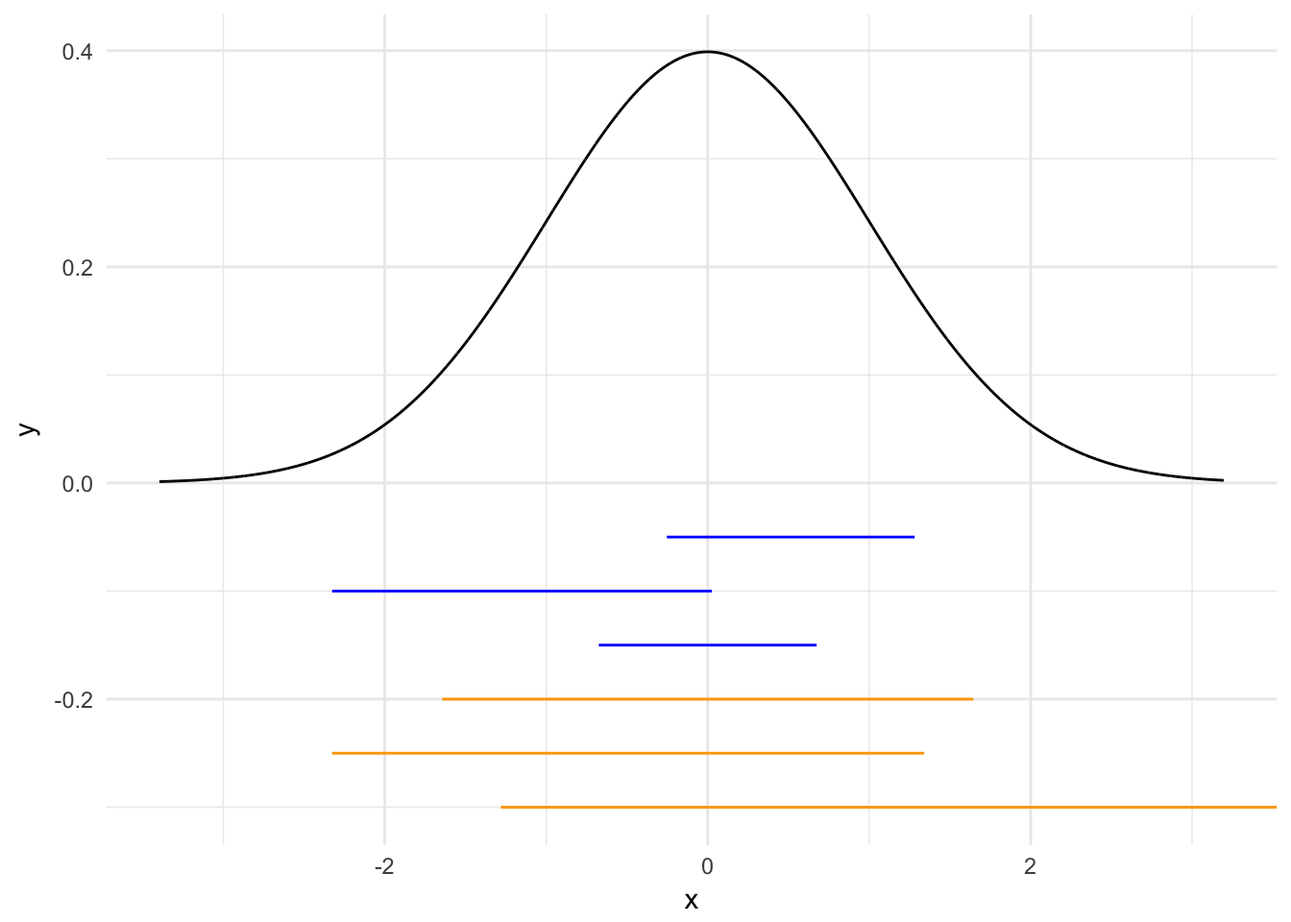
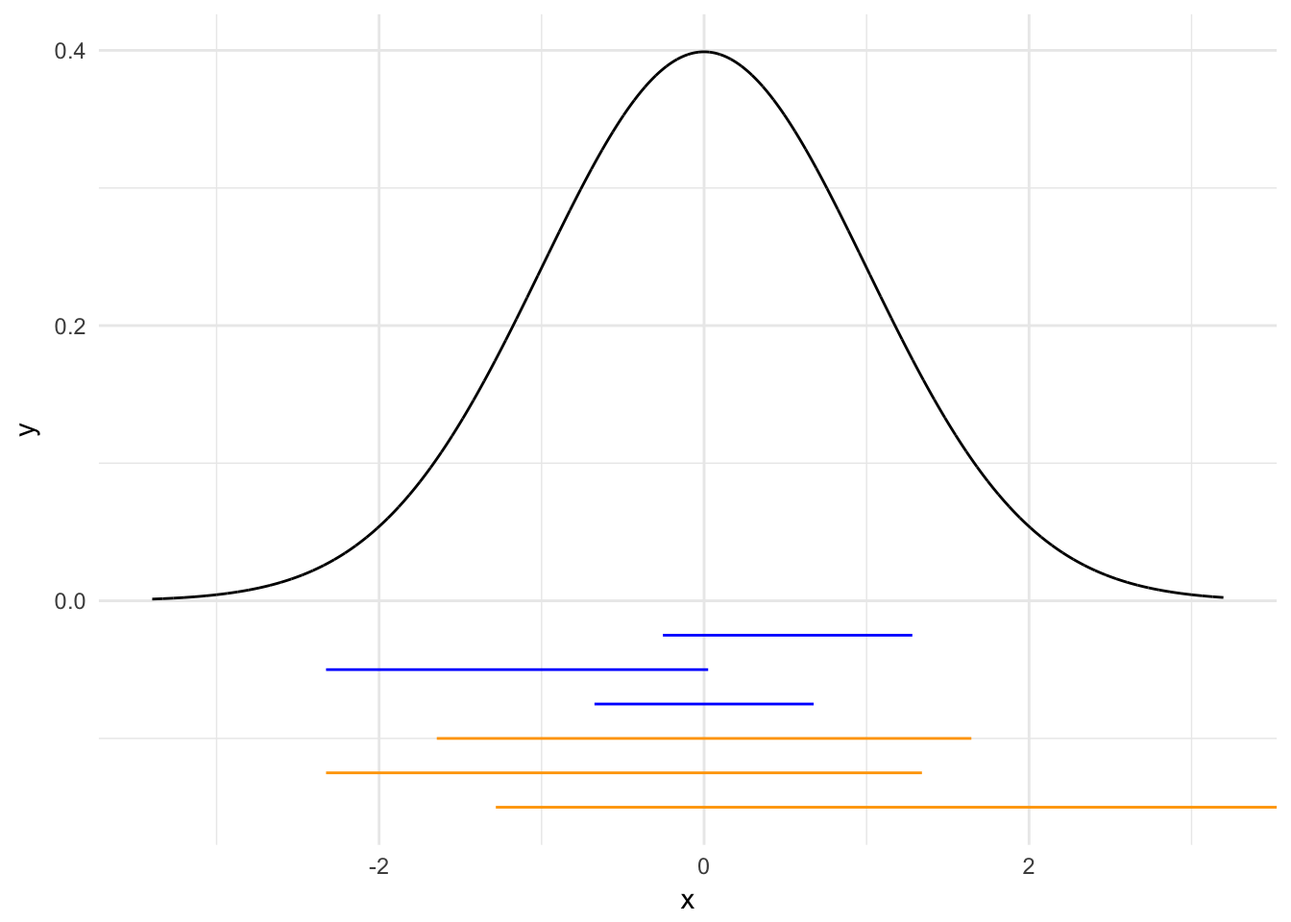
Clean up Bayesian notes and fix typos

diff --git a/persp017_inference.html b/persp017_inference.html
@@ -362,13 +362,9 @@ div.tocify {
 <div id="objectives" class="section level1">
 <h1>Objectives</h1>
 <ul>
-<li>Define Bayes’ theorem
-<ul>
-<li>False-positive example in disease detection (p. 33 in Bertsekas)</li>
-<li>9/11 hijacking example from <em>Signal and the Noise</em></li>
-</ul></li>
-<li>Define frequentist inference</li>
+<li>Define Bayes’ theorem</li>
 <li>Define Bayesian inference</li>
+<li>Define frequentist inference</li>
 <li>Demonstrate basic Bayesian inference compared to frequentist inference</li>
 <li>Identify computational methods for estimating Bayesian models</li>
 </ul>
@@ -394,7 +390,7 @@ div.tocify {
 <p>Bayes’ rule tells us how to <strong>invert</strong> conditional probabilities. That is, to find <span class="math inline">\(P(B|A)\)</span> from <span class="math inline">\(P(A|B)\)</span>. Let’s walk through this with a few examples.</p>
 <div id="coin-tossing" class="section level2">
 <h2>Coin tossing</h2>
-<p>Toss a coin 5 times. Let $H_1 = $ “first toss is heads” and let $H_A = $ “all 5 tosses are heads”. Therefore <span class="math inline">\(P(H_1 | H_A) = 1\)</span> (if all five tosses are heads, then the first one must by definition also be heads) and <span class="math inline">\(P(H_A | H_1) = \frac{1}{16}\)</span> (<span class="math inline">\(\frac{1}{2^4} = \frac{1}{16}\)</span>).</p>
+<p>Toss a coin 5 times. Let <span class="math inline">\(H_1 =\)</span> “first toss is heads” and let <span class="math inline">\(H_A =\)</span> “all 5 tosses are heads”. Therefore <span class="math inline">\(P(H_1 | H_A) = 1\)</span> (if all five tosses are heads, then the first one must by definition also be heads) and <span class="math inline">\(P(H_A | H_1) = \frac{1}{16}\)</span> (<span class="math inline">\(\frac{1}{2^4} = \frac{1}{16}\)</span>).</p>
 <p>However we can also use Bayes’ theorem to calculate <span class="math inline">\(P(H_1 | H_A)\)</span> using <span class="math inline">\(P(H_A | H_1)\)</span>. The terms we need are:</p>
 <ul>
 <li><span class="math inline">\(P(H_A | H_1) = \frac{1}{16}\)</span></li>
@@ -416,7 +412,7 @@ div.tocify {
 </ul>
 <p><span class="math display">\[
 \begin{align}
-P(\text{aircraft present} | \text{radar registers} &amp;= P(A|B) \\
+P(\text{aircraft present} | \text{radar registers}) &amp;= P(A|B) \\
 &amp; = \frac{P(A) \cdot P(B|A)}{P(B)} \\
 &amp; = \frac{P(A) \cdot P(B|A)}{P(A) \cdot P(B|A) + P(A = 0) \cdot(B | A = 0)} \\
 &amp; = \frac{0.05 \cdot 0.99}{0.05 \cdot 0.99 + 0.95 \cdot 0.1} \\
@@ -432,7 +428,7 @@ P(\text{aircraft present} | \text{radar registers} &amp;= P(A|B) \\
 <li>If a person has the disease, then the test results are positive with probability 0.95</li>
 <li>If the person does not have the disease, then the test results are negative with probability 0.95</li>
 </ul>
-<p>A random person drawn from a certain population has probability 0.001 of having the disease. Given that the person just tested positive, what is the probabiltiy of having the disease?</p>
+<p>A random person drawn from a certain population has probability 0.001 of having the disease. Given that the person just tested positive, what is the probability of having the disease?</p>
 <ul>
 <li><span class="math inline">\(A = {\text{person has the disease}}\)</span></li>
 <li><span class="math inline">\(B = {\text{test result is positive for the disease}}\)</span></li>
@@ -470,7 +466,7 @@ P(\text{person has the disease} | \text{test is positive}) &amp;= P(A|B) \\
 &amp; = 0.0187
 \end{align}
 \]</span></p>
-<p>Before the test, we would have said the probability the person had the disease was 0.002. After the test, we see the probability is 0.166. That is, the positive test provides some evidence that the person has the disease (even if it isn’t good evidence).</p>
+<p>Before the test, we would have said the probability the person had the disease was 0.001. After the test, we see the probability is 0.0187, or 18 times more likely than before the test. That is, the positive test provides some evidence that the person has the disease (even if it isn’t good evidence).</p>
 </div>
 <div id="coin-tossing-example" class="section level2">
 <h2>Coin tossing example</h2>
@@ -483,7 +479,7 @@ P(\text{person has the disease} | \text{test is positive}) &amp;= P(A|B) \\
 <p>Suppose I have a drawer containing 5 coins: 2 of type <span class="math inline">\(A\)</span>, 2 of type <span class="math inline">\(B\)</span>, and 1 of type <span class="math inline">\(C\)</span>. I reach into the drawer and pick a coin at random. Without showing you the coin I flip it once and get heads. What is the probability it is type <span class="math inline">\(A\)</span>? Type <span class="math inline">\(B\)</span>? Type <span class="math inline">\(C\)</span>?</p>
 <div id="terminology" class="section level3">
 <h3>Terminology</h3>
-<p>Let <span class="math inline">\(A\)</span>, <span class="math inline">\(B\)</span>, and <span class="math inline">\(C\)</span> be the even the chosen coin was of the respective type. Let <span class="math inline">\(D\)</span> be the event that the toss is heads. The problem then asks us to find:</p>
+<p>Let <span class="math inline">\(A\)</span>, <span class="math inline">\(B\)</span>, and <span class="math inline">\(C\)</span> be the event the chosen coin was of the respective type. Let <span class="math inline">\(D\)</span> be the event that the toss is heads. The problem then asks us to find:</p>
 <p><span class="math display">\[P(A|D), P(B|D), P(C|D)\]</span></p>
 <p>Before applying Bayes’ theorem, we need to define a few things:</p>
 <ul>
@@ -493,7 +489,8 @@ P(\text{person has the disease} | \text{test is positive}) &amp;= P(A|B) \\
 <li><p>Prior probability - the probability of each hypothesis prior to tossing the coin (collecting data). Since the drawer has 2 coins of type <span class="math inline">\(A\)</span>, 2 of type <span class="math inline">\(B\)</span>, and 1 of type <span class="math inline">\(C\)</span>, we have:</p>
 <p><span class="math display">\[P(A) = 0.4, P(B) = 0.4, P(C) = 0.2\]</span></p></li>
 <li><p>Likelihood - the likelihood function (same as used for maximum-likelihood estimation). The likelihood function is <span class="math inline">\(P(D|H)\)</span>, the probability of the data assuming that the hypothesis is true. Most often we will consider the data as fixed and let the hypothesis vary. For example, <span class="math inline">\(P(D|A) =\)</span> probability of heads if the coin is type <span class="math inline">\(A\)</span>. In our case, the likelihoods are:</p>
-<p><span class="math display">\[P(D|A) = 0.5, P(D|B) = 0.6, P(D|C) = 0.9\]</span></p></li>
+<p><span class="math display">\[P(D|A) = 0.5, P(D|B) = 0.6, P(D|C) = 0.9\]</span></p>
+<p>We can think of these as parameters for a series of Bernoulli distributions.</p></li>
 <li><p>Posterior probability - the probability (posterior to) of each hypothesis given the data from tossing the coin:</p>
 <p><span class="math display">\[P(A|D), P(B|D), P(C|D)\]</span></p>
 <p>These posterior probabilities are what we want to find.</p></li>
@@ -566,7 +563,7 @@ P(D) &amp; = P(D|A) \cdot P(A) + P(D|B) \cdot P(B) + P(D|C) \cdot P(C) \\
 <div id="things-to-notice" class="section level3">
 <h3>Things to notice</h3>
 <ol style="list-style-type: decimal">
-<li>The posterior probabilities for each hypothesis are in the last column. Coin <span class="math inline">\(B\)</span> is the most probably, even with the decrease from the prior to the posterior. <span class="math inline">\(C\)</span> has increased from 0.2 to 0.29.</li>
+<li>The posterior probabilities for each hypothesis are in the last column. Coin <span class="math inline">\(B\)</span> is the most probable, even with the decrease from the prior to the posterior. <span class="math inline">\(C\)</span> has increased from 0.2 to 0.29.</li>
 <li>The Bayes numerator determines the posterior probability. To compute the posterior probability, simply rescale the Bayes numerator so that it sums to 1.</li>
 <li>If all we care about is finding the most likely hypothesis, the Bayes numerator works as well as the normalized posterior.</li>
 <li>The posterior probability represents the outcome of a tug-of-war between the likelihood and the prior. When calculating the posterior, a large prior may be deflated by a small likelihood, and a small prior may be inflated by a large likelihood.</li>
@@ -593,11 +590,11 @@ P(D) &amp; = P(D|A) \cdot P(A) + P(D|B) \cdot P(B) + P(D|C) \cdot P(C) \\
 <p>In life we continually update our beliefs with each new experience of the world. In Bayesian inference, today’s posterior is tomorrow’s prior.</p>
 <div id="terror-attack-example" class="section level3">
 <h3>Terror attack example</h3>
-<p>Consider the September 11th attacks in New York City. Say that before the first plane hit, our estimate of the probability of a terror attack on tall buildings in Manhattan was just 1 in 20,000, or 0.005 percent. But we also a ssign a low probability to a plane hitting the World Trade Center by accident: 1 in 12,500 on any given day.<a href="#fn2" class="footnoteRef" id="fnref2"><sup>2</sup></a> Consider the use of Bayes’ theorem in this instance. What is the probability of terrorists crashing planes into Manhattan skyscrapers given the first plane hitting the World Trade Center?</p>
+<p>Consider the September 11th attacks in New York City. Say that before the first plane hit, our estimate of the probability of a terror attack on tall buildings in Manhattan was just 1 in 20,000, or 0.005 percent. But we also assign a low probability to a plane hitting the World Trade Center by accident: 1 in 12,500 on any given day.<a href="#fn2" class="footnoteRef" id="fnref2"><sup>2</sup></a> Consider the use of Bayes’ theorem in this instance. What is the probability of terrorists crashing planes into Manhattan skyscrapers given the first plane hitting the World Trade Center?</p>
 <ul>
-<li>Our initial estimate of how likely it is that terrorists would crash planes into Manhattan skyscrapes is <span class="math inline">\(p = 0.005\)</span></li>
+<li>Our initial estimate of how likely it is that terrorists would crash planes into Manhattan skyscrapers is <span class="math inline">\(p = 0.005\)</span></li>
 <li>Probability of plane hitting if terrorists are attacking Manhattan is <span class="math inline">\(p = 1\)</span></li>
-<li>Probability of plane hitting if terrrosts are not attacking Manhattan skyscrapers (i.e. an accident) is <span class="math inline">\(p = 0.008\)</span></li>
+<li>Probability of plane hitting if terrorists are not attacking Manhattan skyscrapers (i.e. an accident) is <span class="math inline">\(p = 0.008\)</span></li>
 </ul>
 <p>Our posterior probability of a terror attack, given the first plane hitting the world trade center, is:</p>
 <ul>
@@ -628,7 +625,10 @@ P(A|B) &amp;= \frac{P(B|A) \cdot P(A)}{P(B)} \\
 </div>
 <div id="choosing-priors" class="section level2">
 <h2>Choosing priors</h2>
-<p>Bayesian inference requires a known prior. What happens if the prior is not known with certainty? Then we need to come up with one. A common approach uses a <strong>uniform prior</strong>, or a flat probability distribution. But if we choose a different prior, we will not obtain the same posterior probabilities. This is one of the major critiques of Bayesian inference, since selection of the prior is based on domain knowledge (and potentially previously obtained posterior probabilities).</p>
+<p>Bayesian inference requires a known prior. What happens if the prior is not known with certainty? Then we need to come up with one. A common approach uses a <strong>uniform prior</strong>, or a flat probability distribution.<a href="#fn3" class="footnoteRef" id="fnref3"><sup>3</sup></a> Other priors come from different distributions, such as Gamma or Beta distributions, or use previous posterior probability distributions as prior probability distributions in updating Bayesian models.</p>
+<p><span class="math display">\[P(\text{hypothesis}| \text{data}) = \frac{P(\text{data} | \text{hypothesis}) \cdot P(\text{hypothesis})}{P(\text{data})}\]</span></p>
+<p><span class="math display">\[\text{posterior} \propto \text{likelhood} \cdot \text{prior}\]</span></p>
+<p>If we choose a different prior, we will not obtain the same posterior probabilities. This is one of the major critiques of Bayesian inference, since selection of the prior is based on domain knowledge (and potentially previously obtained posterior probabilities).</p>
 </div>
 <div id="probability-intervals" class="section level2">
 <h2>Probability intervals</h2>
@@ -640,12 +640,12 @@ P(A|B) &amp;= \frac{P(B|A) \cdot P(A)}{P(B)} \\
 xmin_start &lt;-<span class="st"> </span><span class="kw">c</span>(.<span class="dv">25</span>, .<span class="dv">01</span>, .<span class="dv">4</span>)
 sim_50p &lt;-<span class="st"> </span><span class="kw">data_frame</span>(<span class="dt">xmin =</span> <span class="kw">qnorm</span>(xmin_start),
                       <span class="dt">xmax =</span> <span class="kw">qnorm</span>(xmin_start +<span class="st"> </span>.<span class="dv">5</span>),
-                      <span class="dt">y =</span> <span class="kw">c</span>(-.<span class="dv">15</span>, -.<span class="dv">1</span>, -.<span class="dv">05</span>))
+                      <span class="dt">y =</span> <span class="kw">c</span>(-.<span class="dv">075</span>, -.<span class="dv">05</span>, -.<span class="dv">025</span>))
 
 xmin_start &lt;-<span class="st"> </span><span class="kw">c</span>(.<span class="dv">1</span>, .<span class="dv">01</span>, .<span class="dv">05</span>)
 sim_90p &lt;-<span class="st"> </span><span class="kw">data_frame</span>(<span class="dt">xmin =</span> <span class="kw">qnorm</span>(xmin_start),
                       <span class="dt">xmax =</span> <span class="kw">qnorm</span>(xmin_start +<span class="st"> </span>.<span class="dv">9</span>),
-                      <span class="dt">y =</span> <span class="kw">c</span>(-.<span class="dv">3</span>, -.<span class="dv">25</span>, -.<span class="dv">2</span>))
+                      <span class="dt">y =</span> <span class="kw">c</span>(-.<span class="dv">15</span>, -.<span class="dv">125</span>, -.<span class="dv">1</span>))
 
 <span class="kw">ggplot</span>(sim_data, <span class="kw">aes</span>(x)) +
 <span class="st">  </span><span class="kw">stat_function</span>(<span class="dt">fun =</span> dnorm, <span class="dt">n =</span> <span class="dv">10000</span>, <span class="dt">args =</span> <span class="kw">list</span>(<span class="dt">mean =</span> <span class="dv">0</span>, <span class="dt">sd =</span> <span class="dv">1</span>)) +
@@ -654,13 +654,13 @@ sim_90p &lt;-<span class="st"> </span><span class="kw">data_frame</span>(<span c
 <span class="st">  </span><span class="kw">geom_segment</span>(<span class="dt">data =</span> sim_90p, <span class="kw">aes</span>(<span class="dt">x =</span> xmin, <span class="dt">xend =</span> xmax, <span class="dt">y =</span> y, <span class="dt">yend =</span> y),
                <span class="dt">color =</span> <span class="st">&quot;orange&quot;</span>)</code></pre></div>
 <p><img src="persp017_inference_files/figure-html/pi-width-1.png" width="672" /></p>
-<p>The blue bars span .5-probability intervals. The lengths differ because they are centered over different percentiles (e.g. <span class="math inline">\([.25, .75]\)</span>, <span class="math inline">\([.01, .51]\)</span>, <span class="math inline">\([.4, .9]\)</span>). Likewise for the .9-probability bars in orange. The shortest bars are symmetric and centered over the most likely value (e.g. the mean).</p>
+<p>The blue bars span .5-probability intervals. Each bar contains 50% of the probability mass in the pdf. The lengths differ because they are centered over different percentiles (e.g. <span class="math inline">\([.25, .75]\)</span>, <span class="math inline">\([.01, .51]\)</span>, <span class="math inline">\([.4, .9]\)</span>). Likewise for the .9-probability bars in orange. The shortest bars are symmetric and centered over the most likely value (e.g. the mean).</p>
 <p>Probability intervals are an intuitive and effective way to summarize and communicate your beliefs. Likely you don’t want to describe an entire function <span class="math inline">\(f(\theta)\)</span> in words. Think about it:</p>
 <blockquote>
 <p>I think <span class="math inline">\(\theta\)</span> is between 0.45 and 0.65 with 50% probability.</p>
 </blockquote>
 <blockquote>
-<p>I think <span class="math inline">\(\theta\)</span> follows a <span class="math inline">\(\text{beta}(8, 6)\)</span> distribution.</p>
+<p>I think <span class="math inline">\(\theta\)</span> follows a <span class="math inline">\(\text{Beta}(8, 6)\)</span> distribution.</p>
 </blockquote>
 </div>
 </div>
@@ -670,8 +670,8 @@ sim_90p &lt;-<span class="st"> </span><span class="kw">data_frame</span>(<span c
 <p><span class="math display">\[P(H|D) = \frac{P(D | H) \cdot P(H)}{P(D)}\]</span></p>
 <p>When the prior is known, both Bayesians and frequentists use Bayes’ rule. However, when the prior is not known Bayesians develop one based on the best available information. Frequentists instead abandon Bayes’ theorem and conduct inference just based on the likelihood function:</p>
 <p><span class="math display">\[L(H; D) = P(D|H)\]</span></p>
-<p>The core reasons for this deviation is the meaning of probability. Frequentists believe that probabilities represent longterm frequencies of repeatable random experiments. So if “a coin has probability 0.5 of heads”, a frequentist believes this means the relative frequency of heads goes to 0.5 as the number of flips approaches infinity. This means the frequentist finds it non-sensical to specify a probability distribution for a parameter <span class="math inline">\(\theta\)</span> with a fixed value.</p>
-<p>In short, Bayesians put probability distributions on both hypotheses and data, while frequentists put probability distributions on (random, repeatable, experimental) data given a hypothesis.</p>
+<p>The core reasons for this deviation is the meaning of probability. Frequentists believe that probabilities represent long-term frequencies of repeatable random experiments. So if “a coin has probability 0.5 of heads”, a frequentist believes this means the relative frequency of heads goes to 0.5 as the number of flips approaches infinity. This means the frequentist finds it nonsensical to specify a probability distribution for a parameter <span class="math inline">\(\theta\)</span> with a fixed value.</p>
+<p>In short, Bayesians put probability distributions on both hypotheses and data, while frequentists put probability distributions on (random, repeatable, experimental) data given a hypothesis.<a href="#fn4" class="footnoteRef" id="fnref4"><sup>4</sup></a></p>
 <div id="null-hypothesis-testing" class="section level2">
 <h2>Null hypothesis testing</h2>
 <p>This explains the <strong>null hypothesis test</strong>. The presumption is that some hypothesis (parameter specifying the conditional distribution of the data) is true and that the observed data is sampled from that distribution. Therefore, under the null hypothesis we assume the parameter(s) is zero. If that is true, what is the probability of observing the given data? It does not depend on a subjective prior that could vary from researcher to researcher. This is where we get all of the things like:</p>
@@ -685,7 +685,7 @@ sim_90p &lt;-<span class="st"> </span><span class="kw">data_frame</span>(<span c
 <ul>
 <li>“With a large number of repeated samples, 95% of such calculated confidence intervals would include the true value of the parameter”</li>
 </ul></li>
-<li>Credible intervals describe variablility in the parameter <span class="math inline">\(\theta\)</span> for a fixed data <span class="math inline">\(D\)</span>
+<li>Credible intervals describe variability in the parameter <span class="math inline">\(\theta\)</span> for a fixed data <span class="math inline">\(D\)</span>
 <ul>
 <li>“There is a 90% chance that the parameter falls between these two values”</li>
 </ul></li>
@@ -705,7 +705,7 @@ sim_90p &lt;-<span class="st"> </span><span class="kw">data_frame</span>(<span c
 <h2>Frequentist inference</h2>
 <ul>
 <li>Never uses or gives the probability of a hypothesis</li>
-<li>Depends on the likelihoo <span class="math inline">\(P(D|H)\)</span> for both observed and unobserved data</li>
+<li>Depends on the likelihood <span class="math inline">\(P(D|H)\)</span> for both observed and unobserved data</li>
 <li>Does not require a prior</li>
 <li>Tends to be less computationally intensive</li>
 </ul>
@@ -749,7 +749,7 @@ sim_90p &lt;-<span class="st"> </span><span class="kw">data_frame</span>(<span c
 <div id="defense-of-frequentist-inference" class="section level2">
 <h2>Defense of frequentist inference</h2>
 <ol style="list-style-type: decimal">
-<li>It is objective - all statisticians will agree on the p-value.<a href="#fn3" class="footnoteRef" id="fnref3"><sup>3</sup></a> Any individual can then decide if the p-value warrants rejecting the null hypothesis.</li>
+<li>It is objective - all statisticians will agree on the p-value.<a href="#fn5" class="footnoteRef" id="fnref5"><sup>5</sup></a> Any individual can then decide if the p-value warrants rejecting the null hypothesis.</li>
 <li>The hypothesis testing process is applied in a consistent and rigorous fashion. The interpretation of the results is left to the user by balancing the concerns of type I and type II errors.</li>
 <li>Frequentist experimental design demands a careful description of the experiment and methods of analysis before starting. This helps control for experimenter bias.</li>
 <li>The frequentist approach has been used for over 100 years. There’s lots of support for it in the sciences.</li>
@@ -757,20 +757,33 @@ sim_90p &lt;-<span class="st"> </span><span class="kw">data_frame</span>(<span c
 </div>
 <div id="p-value-test" class="section level2">
 <h2>p-value test</h2>
-<p>You run a two-sample <span class="math inline">\(t\)</span>-test for equal means, with <span class="math inline">\(\alpha = 0.05\)</span> and obtain a p-value of 0.04. What are the odds that the two samples are drawn form distributions with the same mean?</p>
+<p>You run a two-sample <span class="math inline">\(t\)</span>-test for equal means, with <span class="math inline">\(\alpha = 0.05\)</span> and obtain a p-value of 0.04. What are the odds that the two samples are drawn from distributions with the same mean?</p>
 <ol style="list-style-type: decimal">
 <li><span class="math inline">\(\frac{19}{1}\)</span></li>
 <li><span class="math inline">\(\frac{1}{19}\)</span></li>
 <li><span class="math inline">\(\frac{1}{20}\)</span></li>
 <li><span class="math inline">\(\frac{1}{24}\)</span></li>
 </ol>
-<p>Wrong! The answer is <strong>we don’t know</strong>. Frequentist methods only give probabilities of statistics conditioned on hypotheses. They do not give probabilities of hypotheses.</p>
+<p>Wrong! The answer is <strong>we don’t know</strong>. Frequentist methods only give probabilities of statistics conditioned on hypotheses:</p>
+<blockquote>
+<p>With a p-value of less than 0.05, we reject the null hypothesis that the difference in means between the two samples is zero.</p>
+</blockquote>
+<p>They do not give probabilities of hypotheses:</p>
+<blockquote>
+<p>There is a 95% probability that the difference in means between the two samples falls between <span class="math inline">\([-.02, .03]\)</span>.</p>
+</blockquote>
 </div>
+</div>
+<div id="computing-bayesian-models" class="section level1">
+<h1>Computing Bayesian models</h1>
+<p>In more simplistic models based on well-known distributions such as the normal, gamma, beta, Poisson, etc., prior and posterior distributions can be computed analytically in closed form. That is, all the algebra and calculus can be solved by hand (or with minimal computational assistance). However in models with multiple parameters and multivariate probability distributions, the algebra becomes overwhelming. Instead, we can use computational methods such as Markov chain Monte Carlo (MCMC) and Gibbs sampling to integrate over the likelihood function or simulate draws from the distribution in question.</p>
+<p>This is a major reason Bayesian inference is not more common in academia. These computational methods are far beyond the scope of a single lecture on Bayesian inference. Furthermore, computers were not powerful enough until the 1990s/2000s to actually solve the computational tasks necessary to conduct sophisticated Bayesian inference.</p>
 </div>
 <div id="acknowledgments" class="section level1 toc-ignore">
 <h1>Acknowledgments</h1>
 <ul>
-<li>p-value distribution simulation from <a href="http://www.nature.com/nmeth/journal/v14/n1/full/nmeth.4120.html">Altman, Naomi, and Martin Krzywinski. “Points of significance: P values and the search for significance.” <em>Nature Methods</em> 14.1 (2017): 3-4.</a></li>
+<li><a href="https://ocw.mit.edu/courses/mathematics/18-05-introduction-to-probability-and-statistics-spring-2014/">Introduction to Probability and Statistics</a></li>
+<li><a href="http://www.stat.columbia.edu/~gelman/book/">Gelman, Andrew, et al. <em>Bayesian data analysis.</em> Vol. 2. Boca Raton, FL, USA: Chapman &amp; Hall/CRC, 2014.</a></li>
 </ul>
 </div>
 <div id="session-info" class="section level1 toc-ignore">
@@ -783,7 +796,7 @@ sim_90p &lt;-<span class="st"> </span><span class="kw">data_frame</span>(<span c
 ##  language (EN)                        
 ##  collate  en_US.UTF-8                 
 ##  tz       America/Chicago             
-##  date     2017-05-19                  
+##  date     2017-05-22                  
 ## 
 ##  package      * version    date      
 ##  assertthat     0.2.0      2017-04-11
@@ -792,7 +805,6 @@ sim_90p &lt;-<span class="st"> </span><span class="kw">data_frame</span>(<span c
 ##  broom        * 0.4.2      2017-02-13
 ##  car          * 2.1-4      2016-12-02
 ##  cellranger     1.1.0      2016-07-27
-##  codetools      0.2-15     2016-10-05
 ##  coefplot     * 1.2.4.9000 2017-04-25
 ##  colorspace     1.3-2      2016-12-14
 ##  datasets     * 3.3.3      2017-03-07
@@ -814,7 +826,6 @@ sim_90p &lt;-<span class="st"> </span><span class="kw">data_frame</span>(<span c
 ##  httr           1.2.1      2016-07-03
 ##  jsonlite       1.4        2017-04-08
 ##  knitr          1.15.1     2016-11-22
-##  labeling       0.3        2014-08-23
 ##  lattice        0.20-35    2017-03-25
 ##  lazyeval       0.2.0      2016-06-12
 ##  lme4         * 1.1-13     2017-04-19
@@ -872,7 +883,6 @@ sim_90p &lt;-<span class="st"> </span><span class="kw">data_frame</span>(<span c
 ##  CRAN (R 3.3.2)                       
 ##  CRAN (R 3.3.2)                       
 ##  CRAN (R 3.3.0)                       
-##  CRAN (R 3.3.3)                       
 ##  Github (jaredlander/coefplot@0755a00)
 ##  CRAN (R 3.3.2)                       
 ##  local                                
@@ -894,7 +904,6 @@ sim_90p &lt;-<span class="st"> </span><span class="kw">data_frame</span>(<span c
 ##  CRAN (R 3.3.0)                       
 ##  cran (@1.4)                          
 ##  cran (@1.15.1)                       
-##  CRAN (R 3.3.0)                       
 ##  CRAN (R 3.3.2)                       
 ##  CRAN (R 3.3.0)                       
 ##  cran (@1.1-13)                       
@@ -951,7 +960,9 @@ sim_90p &lt;-<span class="st"> </span><span class="kw">data_frame</span>(<span c
 <ol>
 <li id="fn1"><p>Even worse, many physicians substantially miss the correct answer to this question.<a href="#fnref1">↩</a></p></li>
 <li id="fn2"><p>Based on historical records of just two accidents involving planes hitting buildings in New York City from the 1940s-9/10/2011.<a href="#fnref2">↩</a></p></li>
-<li id="fn3"><p>We hope.<a href="#fnref3">↩</a></p></li>
+<li id="fn3"><p>Based on the uniform probability distribution.<a href="#fnref3">↩</a></p></li>
+<li id="fn4"><p>And generally extend this to observational data that is not in practical terms repeatable, though in theory can be.<a href="#fnref4">↩</a></p></li>
+<li id="fn5"><p>We hope.<a href="#fnref5">↩</a></p></li>
 </ol>
 </div>
 
